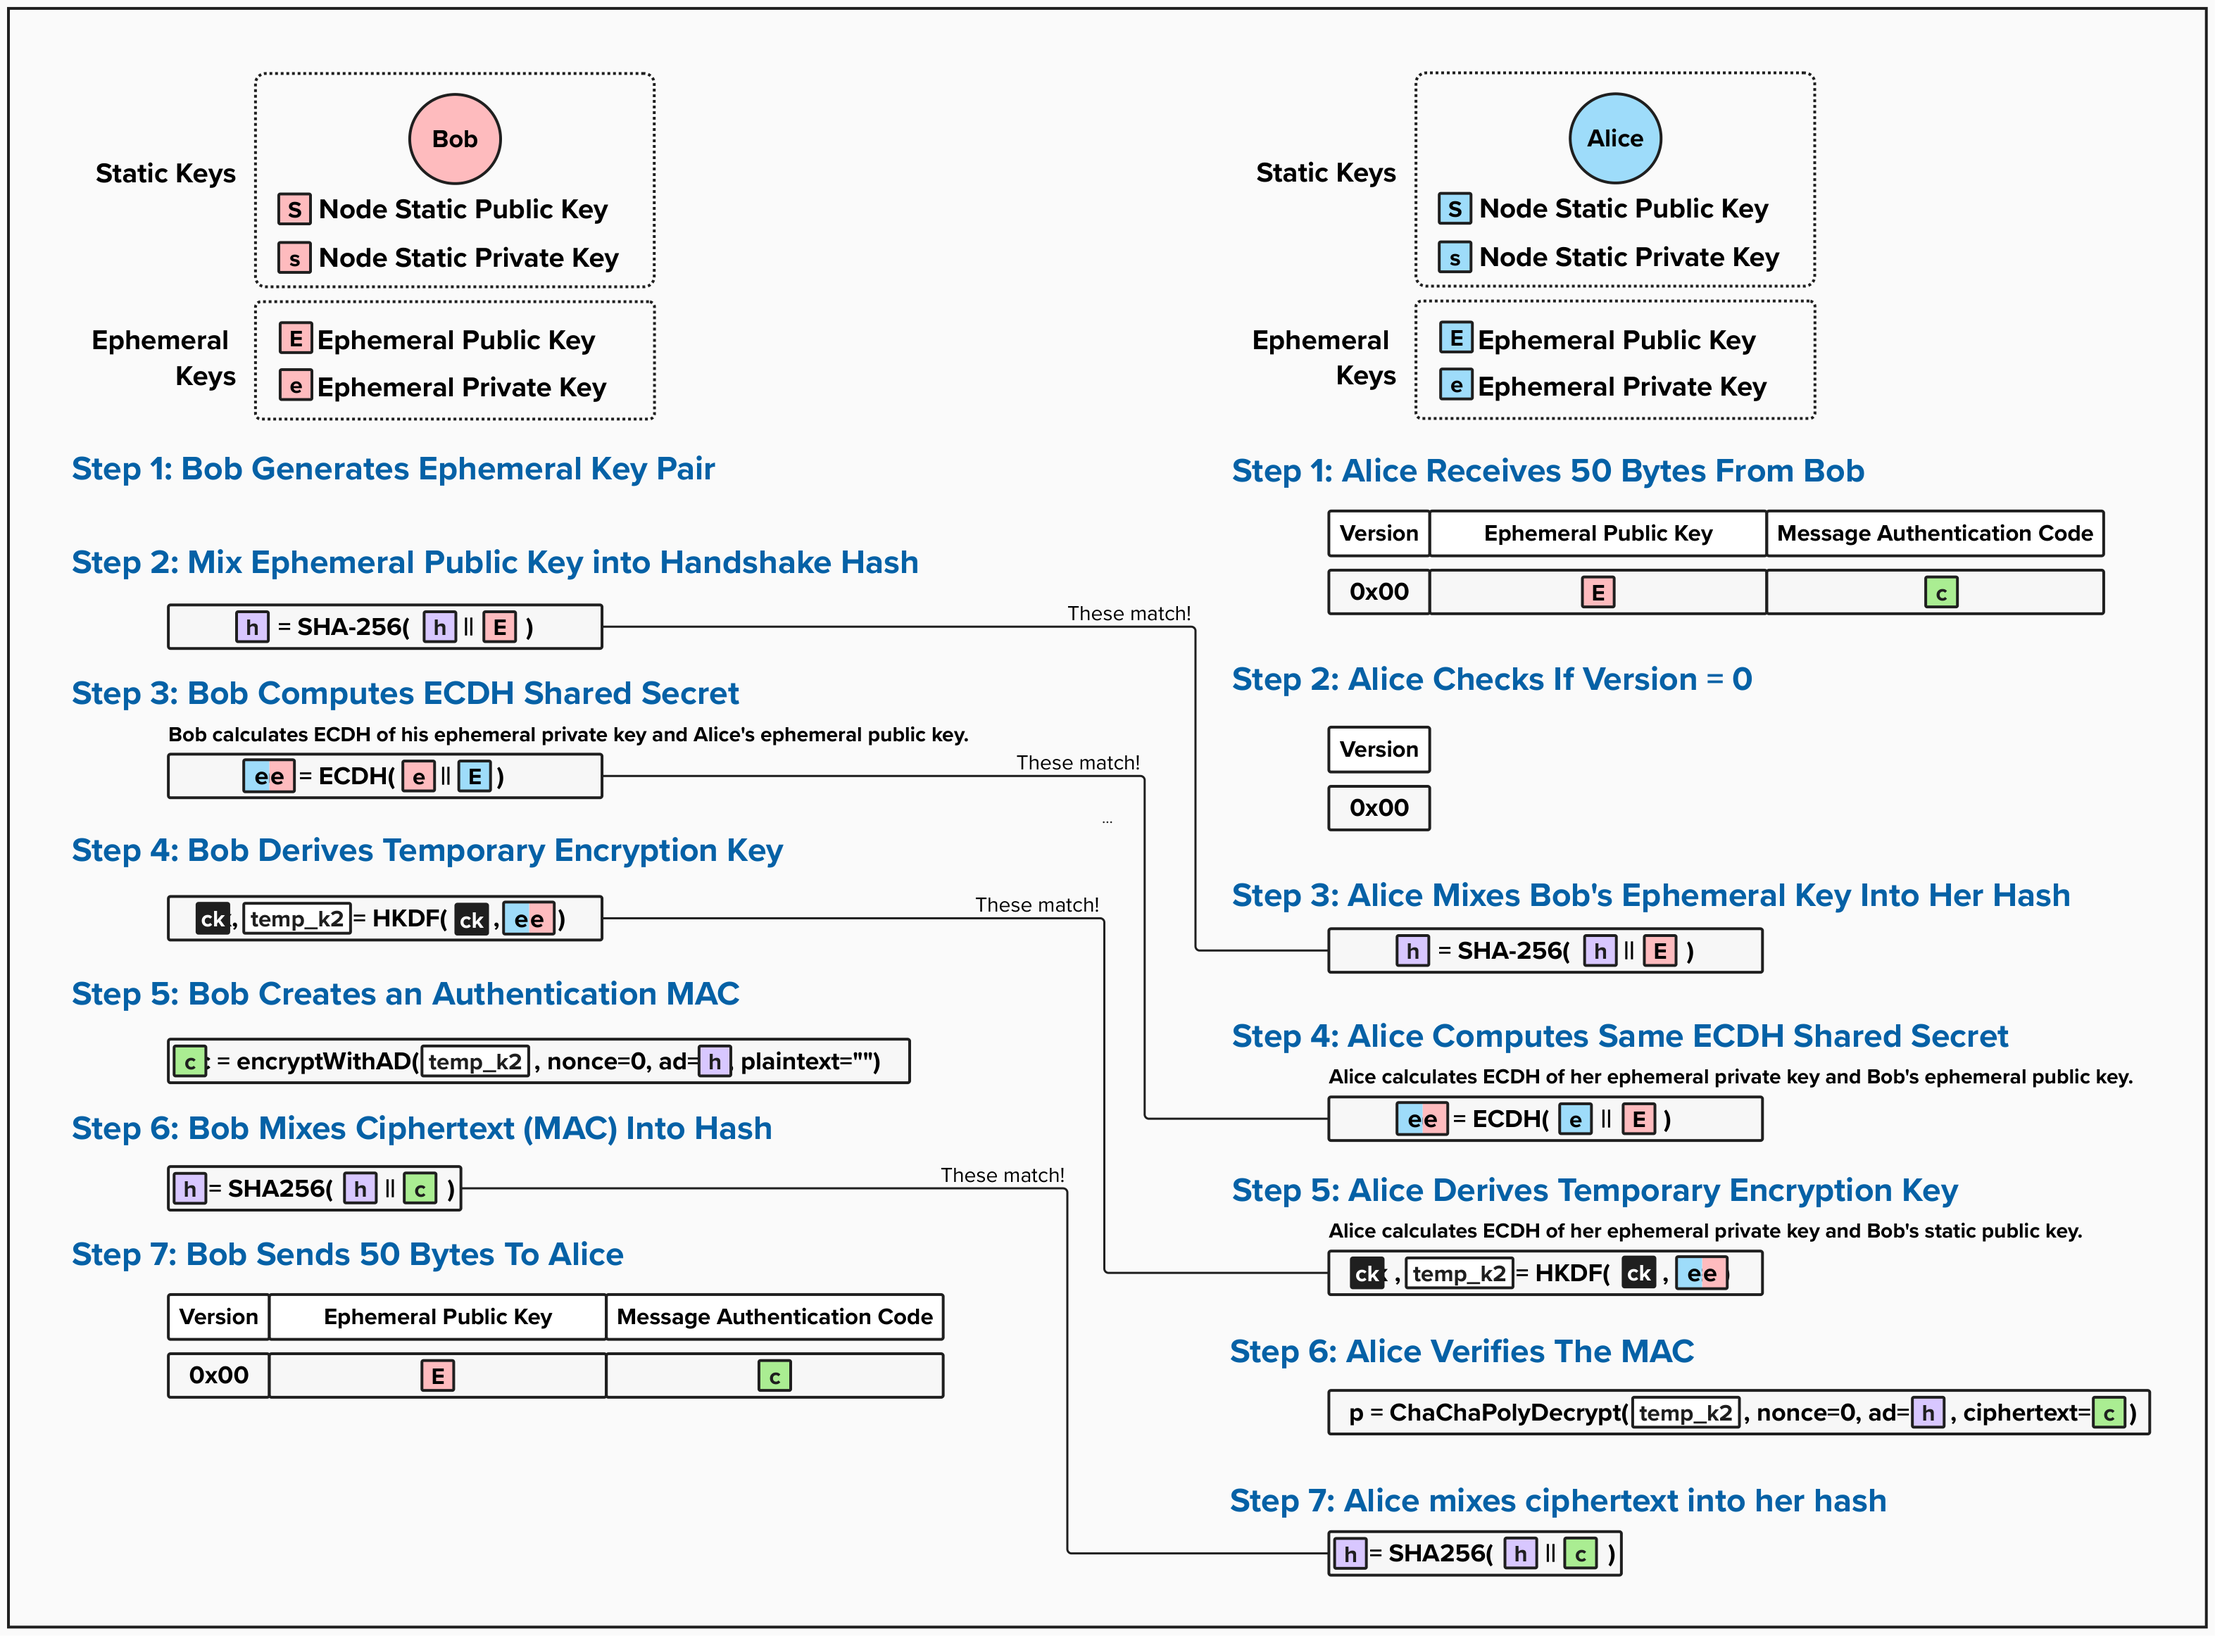
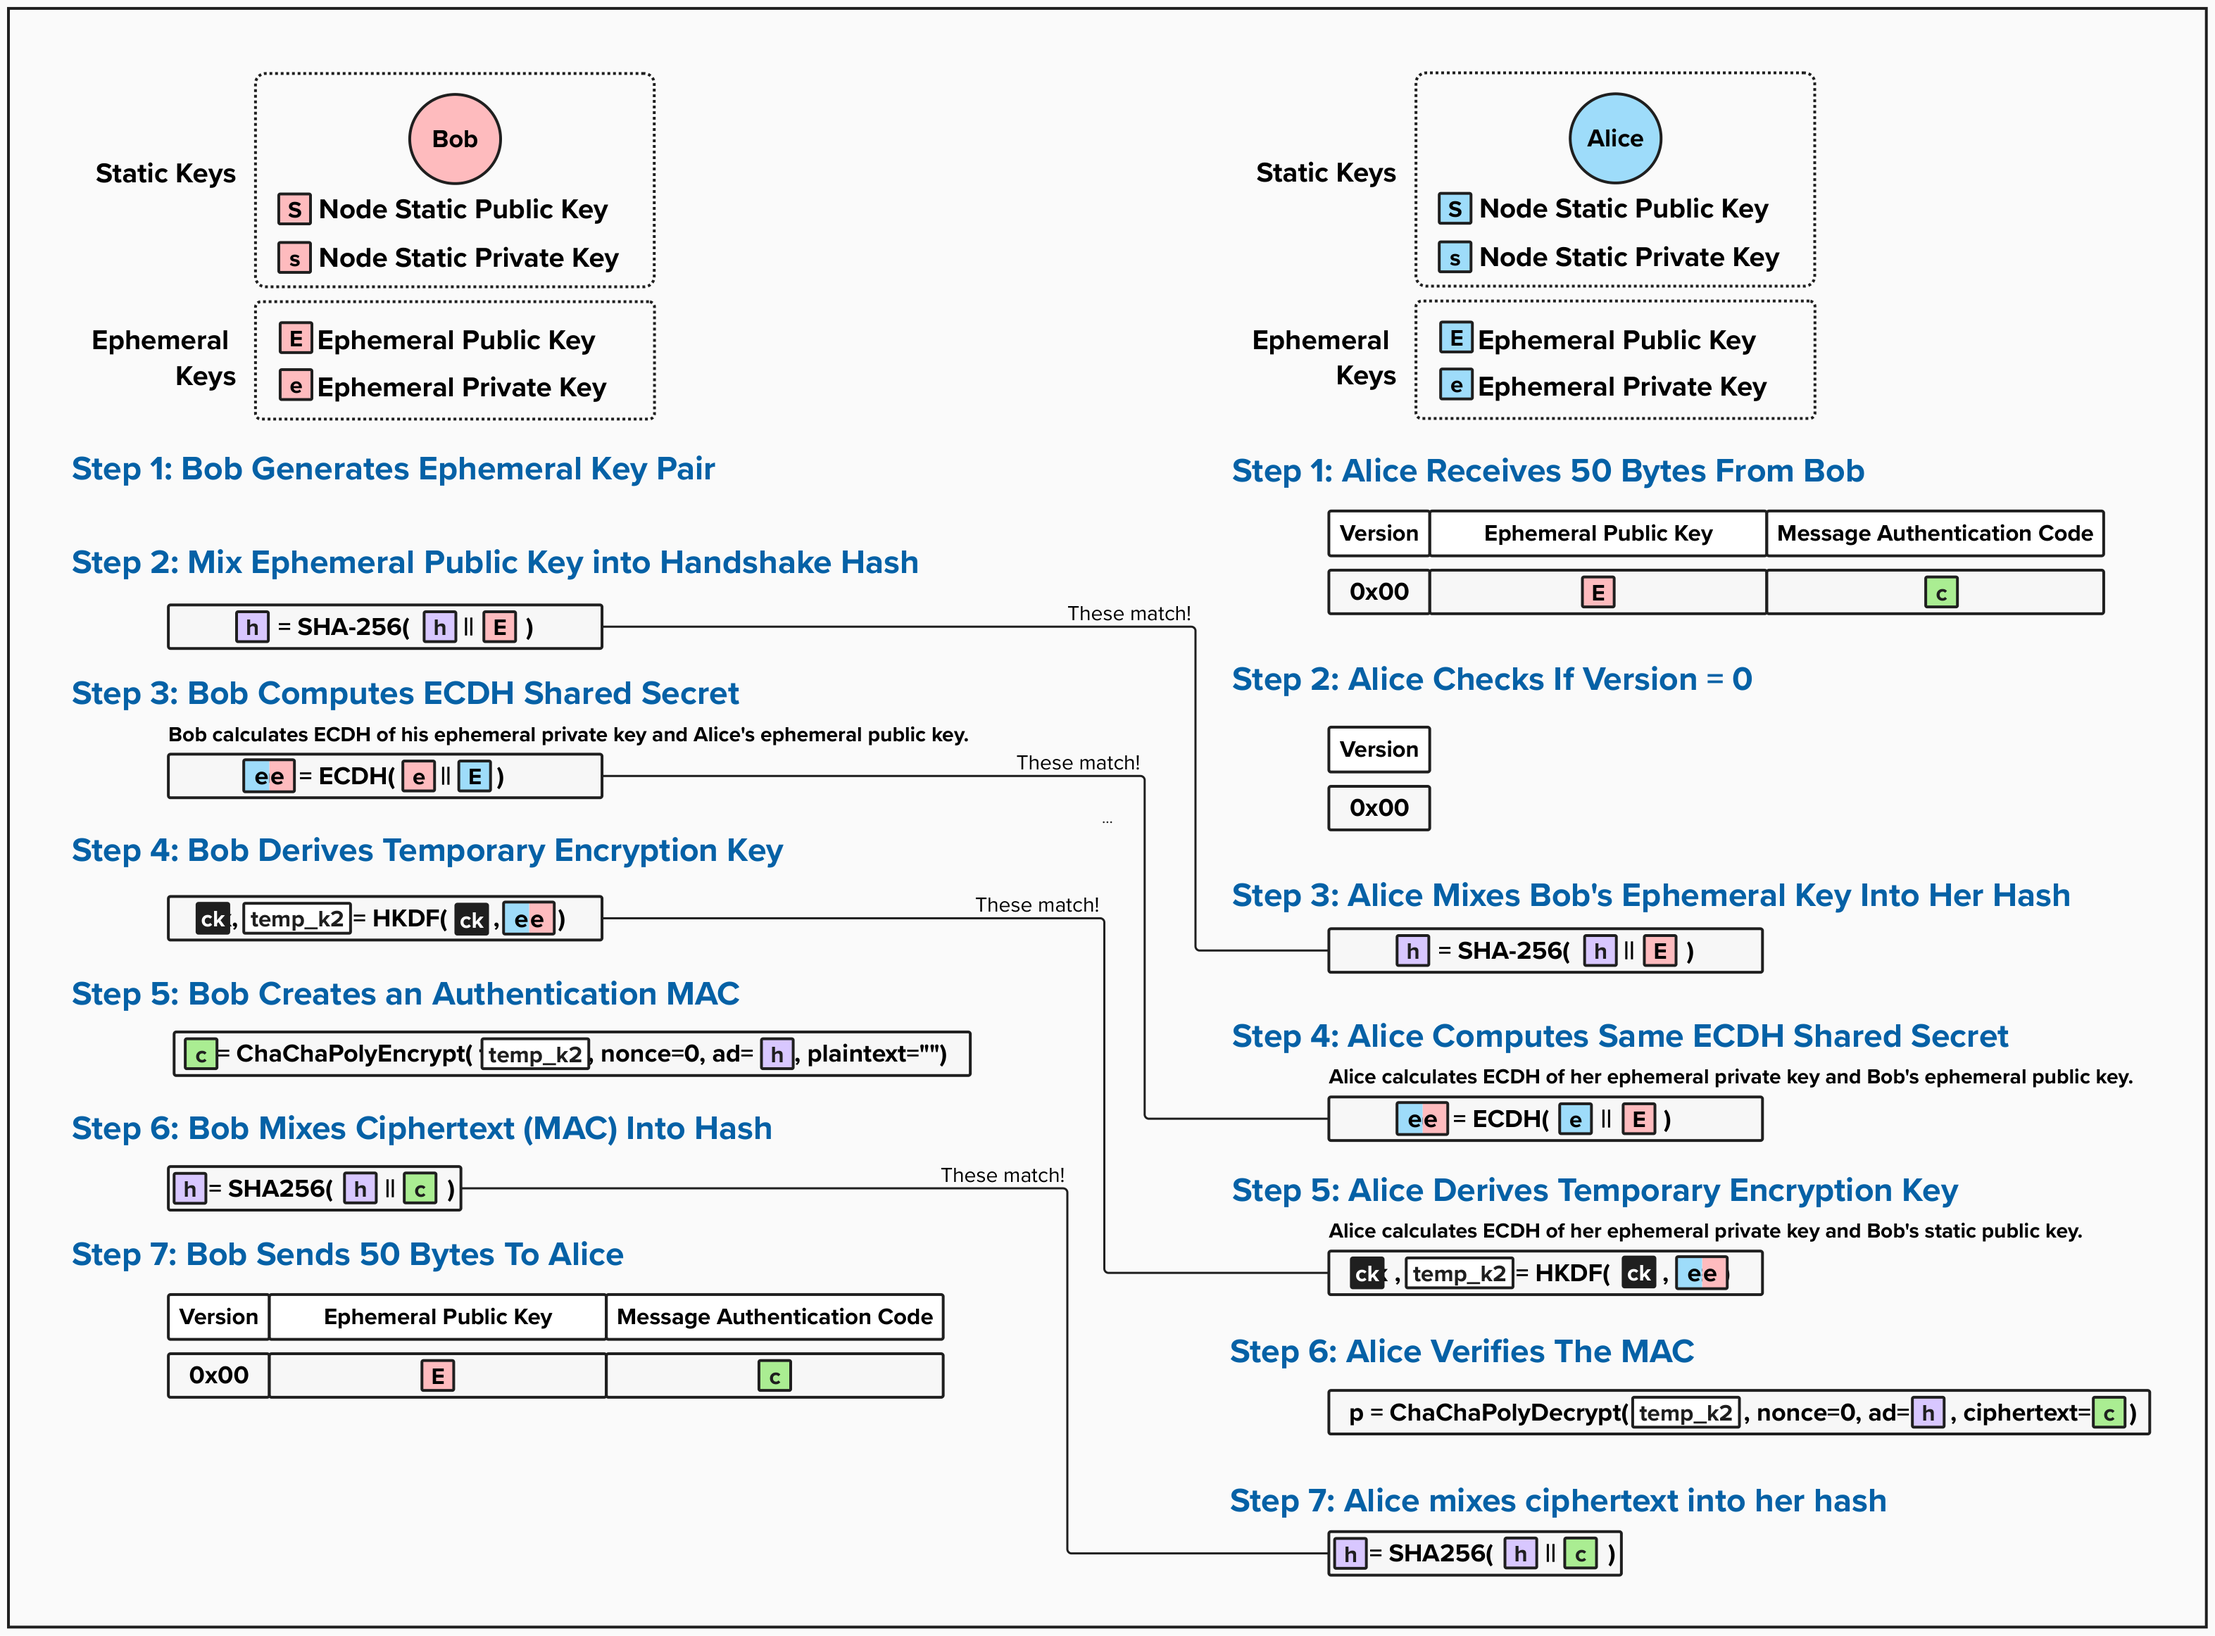
add noise act 3

Changed region(s): [[0.0623, 0.6196, 0.4361, 0.6816]]

diff --git a/tutorial/1.9-noise-act-3.md b/tutorial/1.9-noise-act-3.md
@@ -1,0 +1,83 @@
+# Noise Protocol: Act 3
+
+So far, Alice proven to Bob that she knows his identity by sending a Message Authentication Code (MAC), using a secret key that was created using a shared secret derived from Bob's Static Public Key. Additionally, since this MAC included the handshake hash as Associated Data, Bob was able to verify that him and Alice are using the same Noise variant. Pretty cool that we were able to do all that with just complex math!
+
+Now that Bob knows Alice means business, it's time for him to join in on the fun by sending some information back to Alice! In Act 2, Bob will create his own Ephemeral Key Pair to send to Alice. This is a crucial part of the Noise protocol, as it ensures that the encryption keys for each Noise connection are random, and each party provides entropy that contributes towards that randomness.
+
+For instance, imagine if Alice and Bob's shared secret was based on their Static Public Keys. Then, their shared secret would not be unique to this specific connection! If they disconnect and reconnect 1,000 times, they will have the same shared secret (and, thus, encryption keys) every time!
+
+## Act 2: Bob's Point-of-View
+
+<p align="left" style="width: 50%; max-width: 300px;">
+  <img src="./tutorial_images/noise_act2_bob.png" alt="noise_act2_bob" width="100%" height="auto">
+</p>
+
+### Step 1: Bob Generates Ephemeral Key Pair
+First, Bob will generate his own Ephemeral Public and Private Key. This keypair is unique to this Noise connection instance. If Bob were to disconnect and reconnect to Alice, he would generate an entirely new Ephemeral Key Pair, ensuring that each connection uses distinct and random encryption keys.
+
+### Step 2: Bob Mixes Ephemeral Public Key into Handshake Hash
+Next, Bob will mix his Ephemeral Public Key into the handshake hash. Remember, the handshake hash acts as a **transcript**, recording all important steps in the handshake process.
+
+### Step 3: Bob Computes ECDH Shared Secret
+Next, Bob will derive a shared secret, using his Ephemeral Private Key and Alice's Ephemeral Public Key. By doing this, Bob ensures that the entropy used to create encryption keys is independent from his Static Key Pair. So, if his Static keys are even compromised, the attacker would still be unable to decrypt messages sent over this channel.
+
+### Step 4: Bob Derives Temporary Encryption Key
+Bob will then derive a new **Temporary Key** (`temp_k2`) and update his **Chaining Key** so that it now contains accumulated key material from ECDH operations in Act 1 and Act 2. Similar to `temp_k1`, `temp_k2` will be used as a one-time key to generate a MAC for Bob's communication to Alice.
+
+### Step 5: Bob Creates an Authentication MAC
+Once Bob has his one-time temporary key, he will generate a MAC for his message to Alice. Remember, the Bob's goal for Act 2 is to send Alice his Ephemeral Public Key, and the MAC serves as a way for Alice to authenticate Bob, confirming the message come from him, and ensure the message's integrity - meaning it was not altered in transit.
+
+### Step 6: Bob Mixes Ciphertext (MAC) Into Hash
+Bob will the mix the MAC into the handshake hash, bringing the hash up to sync with all of Bob's cryptographic operations for Act 2.
+
+### Step 7: Bob Sends 50 Bytes To Alice
+Finally, Bob will send Alice a 50-byte message with the following structure:
+- **Byte 1**: The first byte will be the version. As of now, the only valid version is `0`. If the version is anything other than this, Alice will reject the connection.
+- **Bytes 2-34**: The next 33 bytes will be Bob's Ephemeral Public Key (in Bitcoin's compressed format). This is not encrypted, as Alice will need to use this to calculate the ECDH shared secret. Since Bob's Ephemeral Public Key is not linked to his Lightning node's identity, transmitting this in plain text does not leak any personal data.
+- **Bytes 35-50**: The last 16 bytes are the message authentication code produced by the ChaCha20-Poly1305 encryption algorithm.
+
+## Act 2: Alice's Point-of-View
+
+<p align="left" style="width: 50%; max-width: 300px;">
+  <img src="./tutorial_images/noise_act2_alice.png" alt="noise_act2_alice" width="100%" height="auto">
+</p>
+
+Once Alice receives Bob's message, her primary goal is to validate Bob's Ephemeral Public Key. Let's see how it's done!
+
+### Step 1: Alice Receives 50 Bytes From Bob
+Just like Bob did in Act 1, Alice will first read exactly 50 bytes from the network buffer and parse the message into the following three components:
+- **Version** (1 byte): The handshake version number.
+- **Ephemeral Public Key** (33 bytes): Bob's Ephemeral Public Key.
+- **Message Authentication Code** (16 bytes): The MAC that Bob created with `temp_k2` and the handshake hash as associated data.
+
+### Step 2: Alice Checks If Version = 0
+Before processing the message further, Alice will validate that the version byte equals `0x00`. If it's not `0x00`, Alice will abort the connection!
+
+### Step 3: Alice Mixes Bob's Ephemeral Key Into Her Hash
+Alice will then mix Bob's Ephemeral Public Key into her handshake hash. At this point, her hash should exactly match Bob's hash from his Step 2. As we've seen many times now, Alice will continue to update her handshake hash to stay synchronized with Bob's.
+
+### Step 4: Alice Computes Same ECDH Shared Secret
+Next, Alice will take her Ephemeral Private Key and Bob's Ephemeral Public Key and compute the **ephemeral-ephemeral shared secret** using ECDH. Due to the properties of ECDH, the result will be the exact same shared secret that Bob produced in his Step 3.
+
+While this is the second ECDH Alice and Bob have performed, it's quite special because it only uses Ephemeral Public Keys. Therefore, even if both Alice's and Bob's Static Keys are compromised in the future, all communicated encrypted in this Noise session will remain secure because both ephemeral private keys will be destroyed after the handshake completes. We'll revisit this later!
+
+### Step 5: Alice Derives Temporary Encryption Key
+Alice will then derive **Temporary Key 2** (`temp_k2`) and update her **Chaining Key** (`ck`). The temporary key, `temp_k2`, will allow her to verify the MAC that Bob sent over, while the chaining key `ck` is continuing to "chain" together shared secrets from each ECDH operation, thus incorporating all of the entropy into each new chaining key.
+
+### Step 6: Alice Verifies The MAC
+Once Alice has `temp_k2`, the ciphertext (`c`) that Bob sent in his message, and an updated handshake hash (`h`), she can decrypt and verify the MAC using the ChaCha20-Poly1305 cipher.
+
+If the MAC is invalid, the function will fail with an authentication error, and Alice will immediately terminate the connection.
+
+### Step 7: Alice Mixes Ciphertext Into Her Hash
+Finally, Alice will mix the ciphertext into her hash, synchronizing her handshake hash with Bob's. With this step complete, both Alice and Bob now have:
+- Two completed ECDH operations (`es` and `ee`) mixed into their chaining keys.
+- Synchronized handshake hashes.
+- Mutual forward secrecy from the ephemeral-ephemeral exchange.
+
+Alice is now ready to proceed to Act 3, where she will reveal her static public key to Bob in encrypted form!
+
+## Act 2 Summary
+With that, Act 2 is complete! Bob has confirmed to Alice that he successfully validated her Act 1 message, and both parties have now completed the ephemeral-ephemeral ECDH exchange. This provides **mutual forward secrecy** - even if both Alice's and Bob's static keys are compromised in the future, this session will remain secure.
+
+At this point, Alice and Bob have accumulated two shared secrets (`es` and `ee`) into their chaining keys, and both parties have contributed fresh randomness to the session. Up next, we'll see Act 3, where Alice finally reveals her identity to Bob in encrypted form, completing the authentication handshake!
